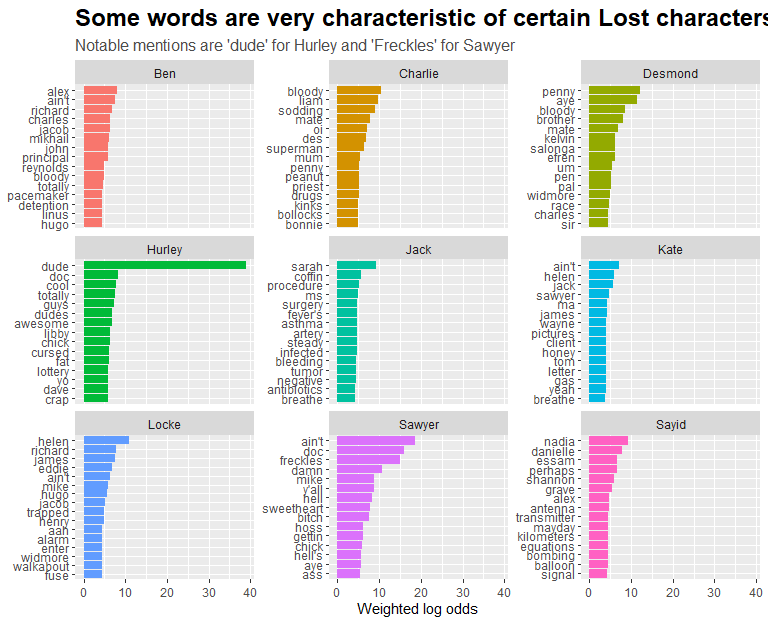
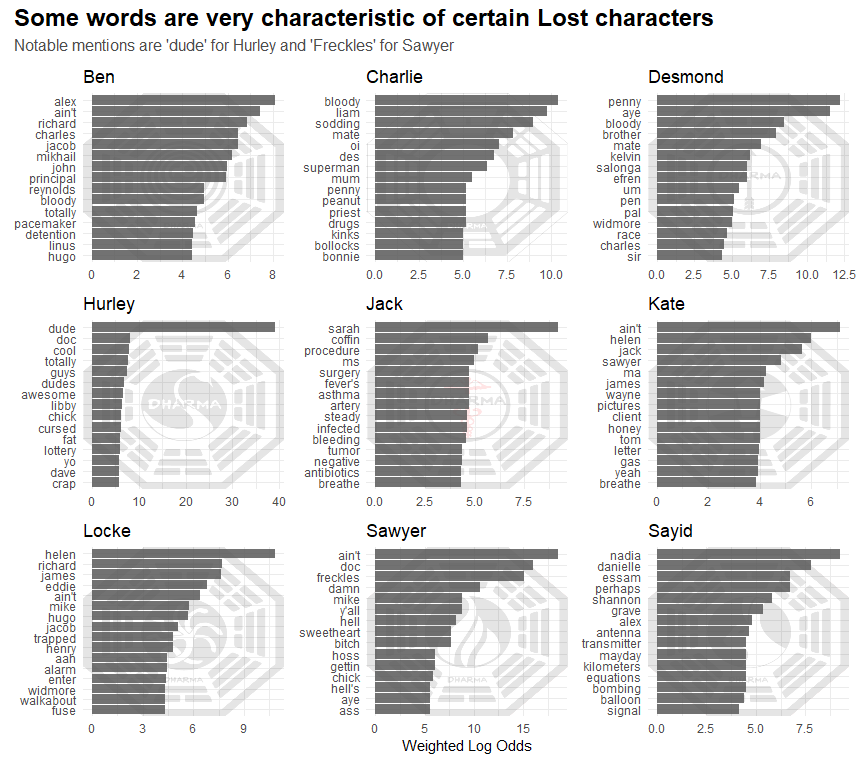
update remaining plots using custom lost theme

diff --git a/README.md b/README.md
@@ -62,19 +62,19 @@ lost %>%
 ### Which characters have the most lines per season?
 
 ``` r
-plot_top_lines <- function(tbl, x, y, season_n, bg_img, x_label = NULL){
+plot_top_lines <- function(tbl, x, y, facet_var, facet, bg_img, x_label = NULL, color = "grey35"){
     tbl %>%
-        filter(season == glue("Season {season_n}")) %>%
+        filter({{facet_var}} == facet) %>%
         mutate({{y}} := fct_reorder({{y}}, {{x}})) %>%
         ggplot(aes({{x}}, {{y}})) +
         annotation_custom(rasterGrob(readPNG(bg_img),
                                      width = unit(1, "npc"),
                                      height = unit(1, "npc")),
                           -Inf, Inf, -Inf, Inf) +
-        geom_col() +
+        geom_col(fill = color, alpha = 0.85) +
         labs(x = x_label,
              y = NULL,
-             title = glue("Season {season_n}")) +
+             title = facet) +
         theme_minimal()
 }
 
@@ -86,12 +86,12 @@ plot_2_data <- lost %>%
     mutate(character = if_else(character == "Christian Shephard", "Christian", character)) %>%
     mutate(season = glue("Season {season}"))
 
-plot_top_lines(plot_2_data, n, character, 1, "images/the_arrow_alpha_10.png") + 
-    plot_top_lines(plot_2_data, n, character, 2, "images/the_flame_alpha_10.png") +
-    plot_top_lines(plot_2_data, n, character, 3, "images/the_hydra_alpha_10.png") +
-    plot_top_lines(plot_2_data, n, character, 4, "images/the_lamp_post_alpha_10.png") +
-    plot_top_lines(plot_2_data, n, character, 5, "images/the_looking_glass_alpha_10.png", "Lines") +
-    plot_top_lines(plot_2_data, n, character, 6, "images/the_orchid_alpha_10.png") +
+plot_top_lines(plot_2_data, n, character, season, "Season 1", "images/the_arrow_alpha_10.png") + 
+    plot_top_lines(plot_2_data, n, character, season, "Season 2", "images/the_flame_alpha_10.png") +
+    plot_top_lines(plot_2_data, n, character, season, "Season 3", "images/the_hydra_alpha_10.png") +
+    plot_top_lines(plot_2_data, n, character, season, "Season 4", "images/the_lamp_post_alpha_10.png") +
+    plot_top_lines(plot_2_data, n, character, season, "Season 5", "images/the_looking_glass_alpha_10.png", "Lines") +
+    plot_top_lines(plot_2_data, n, character, season, "Season 6", "images/the_orchid_alpha_10.png") +
     plot_annotation(title = "Jack has the most lines for all seasons except season 5",
                     subtitle = "The top 20 characters for each season are shown")
 ```
@@ -155,12 +155,12 @@ plot_4_data <- lost %>%
     ungroup() %>%
     mutate(season = glue("Season {season}"))
 
-plot_top_lines(plot_4_data, log_odds_weighted, word, 1, "images/the_orchid_alpha_10.png") + 
-    plot_top_lines(plot_4_data, log_odds_weighted, word, 2, "images/the_pearl_alpha_10.png") +
-    plot_top_lines(plot_4_data, log_odds_weighted, word, 3, "images/the_staff_alpha_10.png") +
-    plot_top_lines(plot_4_data, log_odds_weighted, word, 4, "images/the_swam_alpha_10.png") +
-    plot_top_lines(plot_4_data, log_odds_weighted, word, 5, "images/the_tempest_alpha_10.png", "Weighted Log Odds") +
-    plot_top_lines(plot_4_data, log_odds_weighted, word, 6, "images/the_arrow_alpha_10.png") +
+plot_top_lines(plot_4_data, log_odds_weighted, word, season, "Season 1", "images/the_orchid_alpha_10.png") + 
+    plot_top_lines(plot_4_data, log_odds_weighted, word, season, "Season 2", "images/the_pearl_alpha_10.png") +
+    plot_top_lines(plot_4_data, log_odds_weighted, word, season, "Season 3", "images/the_staff_alpha_10.png") +
+    plot_top_lines(plot_4_data, log_odds_weighted, word, season, "Season 4", "images/the_swan_alpha_10.png") +
+    plot_top_lines(plot_4_data, log_odds_weighted, word, season, "Season 5", "images/the_tempest_alpha_10.png", "Weighted Log Odds") +
+    plot_top_lines(plot_4_data, log_odds_weighted, word, season, "Season 6", "images/the_arrow_alpha_10.png") +
     plot_annotation(title = "Some words are very characteristic of certain Lost seasons",
                     subtitle = "Notable mentions are 'chopper' in season 4 and 'LaFleur' in season 5")
 ```
@@ -172,24 +172,26 @@ plot_top_lines(plot_4_data, log_odds_weighted, word, 1, "images/the_orchid_alpha
 ### Which words are most characteristic of each Lost character?
 
 ``` r
-lost %>%
+plot_5_data <- lost %>%
     semi_join(character_counts %>% head(top_n_characters)) %>%
     unnest_tokens(word, line) %>%
     count(character, word, sort = TRUE) %>%
     bind_log_odds(character, word, n) %>%
     group_by(character) %>%
     slice_max(log_odds_weighted, n = 15) %>%
-    ungroup() %>%
-    mutate(word = reorder_within(word, log_odds_weighted, character)) %>%
-    ggplot(aes(log_odds_weighted, word, fill = character)) +
-    geom_col() +
-    facet_wrap(~character, scales = "free_y") +
-    scale_y_reordered() +
-    theme(legend.position = "none") +
-    labs(x = "Weighted log odds",
-         y = NULL,
-         title = "Some words are very characteristic of certain Lost characters",
-         subtitle = "Notable mentions are 'dude' for Hurley and 'Freckles' for Sawyer")
+    ungroup()
+
+plot_top_lines(plot_5_data, log_odds_weighted, word, character, "Ben", "images/the_orchid_alpha_10.png") + 
+    plot_top_lines(plot_5_data, log_odds_weighted, word, character, "Charlie", "images/the_pearl_alpha_10.png") +
+    plot_top_lines(plot_5_data, log_odds_weighted, word, character, "Desmond", "images/the_arrow_alpha_10.png") +
+    plot_top_lines(plot_5_data, log_odds_weighted, word, character, "Hurley", "images/the_swan_alpha_10.png") +
+    plot_top_lines(plot_5_data, log_odds_weighted, word, character, "Jack", "images/the_staff_alpha_10.png") +
+    plot_top_lines(plot_5_data, log_odds_weighted, word, character, "Kate", "images/the_lamp_post_alpha_10.png") +
+    plot_top_lines(plot_5_data, log_odds_weighted, word, character, "Locke", "images/the_hydra_alpha_10.png") +
+    plot_top_lines(plot_5_data, log_odds_weighted, word, character, "Sawyer", "images/the_flame_alpha_10.png", "Weighted Log Odds") +
+    plot_top_lines(plot_5_data, log_odds_weighted, word, character, "Sayid", "images/the_looking_glass_alpha_10.png") +
+    plot_annotation(title = "Some words are very characteristic of certain Lost characters",
+                    subtitle = "Notable mentions are 'dude' for Hurley and 'Freckles' for Sawyer")
 ```
 
 ![](README_files/figure-markdown_github/unnamed-chunk-8-1.png)
@@ -201,23 +203,39 @@ lost %>%
 ``` r
 library(textdata)
 
-lost %>%   
+plot_6_data <- lost %>%   
     semi_join(character_counts %>% head(9)) %>%
     unnest_tokens(word, line) %>%
     inner_join(lexicon_nrc()) %>%
     add_count(character) %>%
     count(character, sentiment, n, name = "sentiment_n") %>%
-    mutate(prop = sentiment_n / n) %>%
-    mutate(character = reorder_within(character, prop, sentiment)) %>%
-    ggplot(aes(prop, character, fill = sentiment)) +
-    geom_col() +
-    facet_wrap(~sentiment, scales = "free_y") +
-    scale_y_reordered() +
-    theme(legend.position = "none") +
-    labs(x = "Proportion of words",
-         y = NULL,
-         title = "Different characters have different core emotions their word choice conveys",
-         subtitle = "Notable mentions are anger for Sawyer and positive emotions for Desmond")
+    mutate(prop = sentiment_n / n)
+
+layout <- "
+AABC
+AADE
+FFGH
+FFIJ
+"
+
+pos_color_main <- "#5b664e"
+pos_color <- "#959e8b"
+neg_color_main <- "#5c5050"
+neg_color <- "#a89b9b"
+
+plot_top_lines(plot_6_data, prop, character, sentiment, "positive", "images/the_arrow_alpha_10.png", color = pos_color_main) + 
+    plot_top_lines(plot_6_data, prop, character, sentiment, "joy", "images/the_flame_alpha_10.png", color = pos_color) +
+    plot_top_lines(plot_6_data, prop, character, sentiment, "anticipation", "images/the_hydra_alpha_10.png", color = pos_color) +
+    plot_top_lines(plot_6_data, prop, character, sentiment, "surprise", "images/the_lamp_post_alpha_10.png", color = pos_color) +
+    plot_top_lines(plot_6_data, prop, character, sentiment, "trust", "images/the_looking_glass_alpha_10.png", color = pos_color) +
+    plot_top_lines(plot_6_data, prop, character, sentiment, "negative", "images/the_orchid_alpha_10.png", "Proportion of Words", color = neg_color_main) +
+    plot_top_lines(plot_6_data, prop, character, sentiment, "fear", "images/the_pearl_alpha_10.png", color = neg_color) +
+    plot_top_lines(plot_6_data, prop, character, sentiment, "sadness", "images/the_staff_alpha_10.png", color = neg_color) +
+    plot_top_lines(plot_6_data, prop, character, sentiment, "disgust", "images/the_swan_alpha_10.png", "Proportion of Words", color = neg_color) +
+        plot_top_lines(plot_6_data, prop, character, sentiment, "anger", "images/the_tempest_alpha_10.png", "Proportion of Words", color = neg_color) +
+    plot_annotation(title = "Different characters have different core emotions their word choice conveys",
+                    subtitle = "Notable mentions are anger for Sawyer and positive emotions for Desmond") +
+    plot_layout(design = layout)
 ```
 
 ![](README_files/figure-markdown_github/unnamed-chunk-9-1.png)
@@ -233,23 +251,26 @@ similar based on their use of language.
 ``` r
 library(widyr)
     
-lost %>%   
+plot_7_data <- lost %>%   
     semi_join(character_counts %>% head(top_n_characters)) %>%
     unnest_tokens(word, line) %>%
     inner_join(lexicon_nrc()) %>%
     add_count(character) %>%
     count(character, sentiment, n, name = "sentiment_n") %>%
     mutate(prop = sentiment_n / n) %>%
-    pairwise_cor(character, sentiment, prop) %>% 
-    mutate(item1 = reorder_within(item1, correlation, item2)) %>%
-    ggplot(aes(correlation, item1, fill = item2)) +
-    geom_col() +
-    facet_wrap(~item2, scales = "free_y") +
-    scale_y_reordered() +
-    theme(legend.position = "none") +
-    labs(x = "Correlation",
-         y = NULL,
-         title = "Similarities of characters based on the emotional profile of words they use")
+    pairwise_cor(character, sentiment, prop)
+
+plot_top_lines(plot_7_data, correlation, item1, item2, "Ben", "images/the_orchid_alpha_10.png") + 
+    plot_top_lines(plot_7_data, correlation, item1, item2, "Charlie", "images/the_pearl_alpha_10.png") +
+    plot_top_lines(plot_7_data, correlation, item1, item2, "Desmond", "images/the_arrow_alpha_10.png") +
+    plot_top_lines(plot_7_data, correlation, item1, item2, "Hurley", "images/the_swan_alpha_10.png") +
+    plot_top_lines(plot_7_data, correlation, item1, item2, "Jack", "images/the_staff_alpha_10.png") +
+    plot_top_lines(plot_7_data, correlation, item1, item2, "Kate", "images/the_lamp_post_alpha_10.png") +
+    plot_top_lines(plot_7_data, correlation, item1, item2, "Locke", "images/the_hydra_alpha_10.png") +
+    plot_top_lines(plot_7_data, correlation, item1, item2, "Sawyer", "images/the_flame_alpha_10.png", "Correlation") +
+    plot_top_lines(plot_7_data, correlation, item1, item2, "Sayid", "images/the_looking_glass_alpha_10.png") +
+    plot_annotation(title = "Similarities of characters based on the emotional profile of words they use",
+                    subtitle = "Note that similarity is not symettrical (e.g., Desmond is most similar to Sayid, but Sayid is not most similar to Desmond)")
 ```
 
 ![](README_files/figure-markdown_github/unnamed-chunk-10-1.png)
